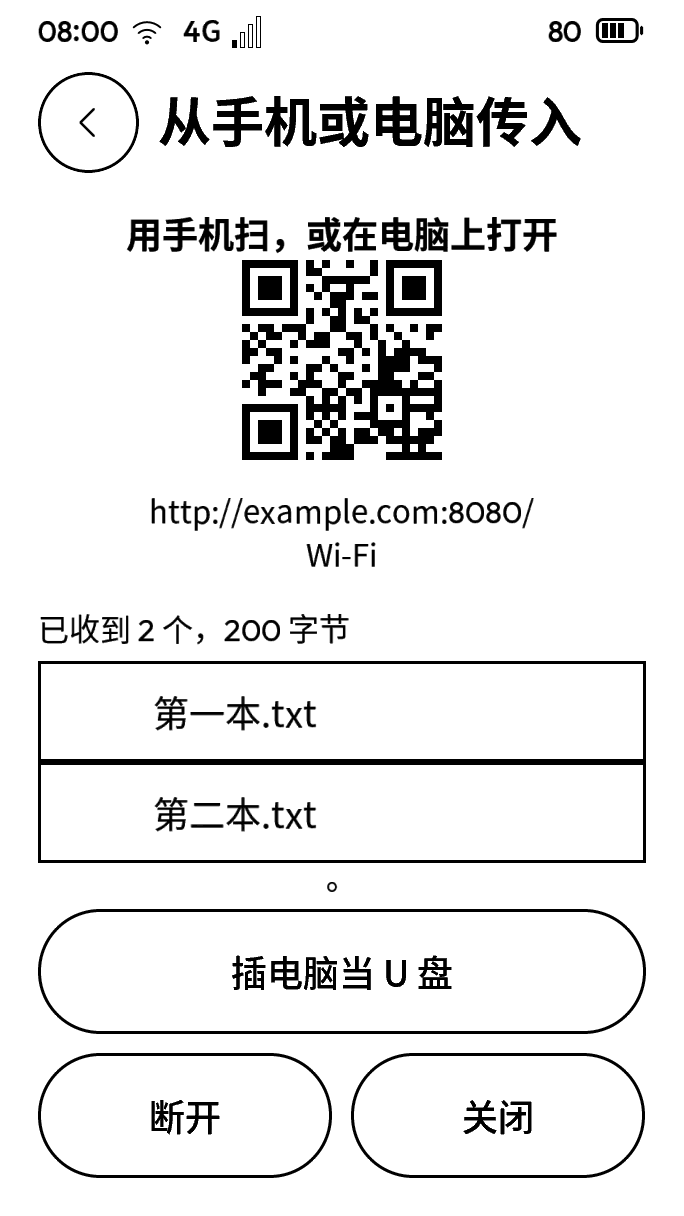
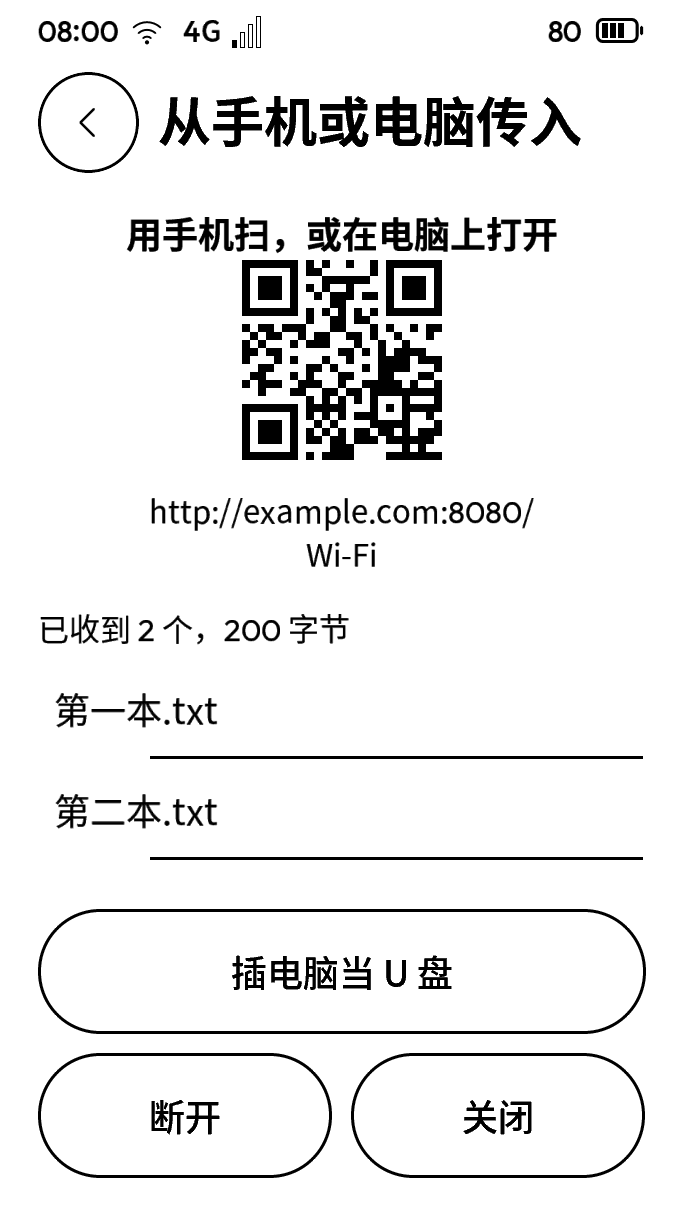
Finalize transfer verification and preserve vendor AP identity

Changed region(s): [[0.0307, 0.5312, 0.9518, 0.7188]]

diff --git a/system/ui/shell/transfer_pages.c b/system/ui/shell/transfer_pages.c
@@ -127,7 +127,7 @@ static void draw(void) {
         } else if (P.active) text(TR("还没连上 Wi-Fi"), INK_FONT_LIST, middle);
         /* The note is one line in Chinese and two in English: it and the status above it move up a line when it
          * wraps, so the buttons never cover its end (i18n-shell-remaining, Transfer-en). */
-        const char *note = !strcmp(P.result, TR("文件已收到")) ? TR("文件已保存，可在文件中打开。") : TR("可以管理当前家人的文件。关掉这页就断开。");
+        const char *note = !strcmp(P.result, TR("文件已收到")) ? TR("文件已保存，可在文件中打开。") : TR("管理当前家人的文件。\n关掉这页就断开。");
         int note_y = bottom - INK_PRIMARY - INK_GAP - ink_ui_text_height(note, INK_FONT_NOTE, INK_WEIGHT_REGULAR, w) - INK_GAP_S;
         if (!P.files) P.note_label = text(note, INK_FONT_NOTE, note_y);
         if (P.files || (P.active && !strcmp(P.code, "000000"))) {
@@ -245,7 +245,7 @@ static void open_page(ink_call_t *c) {
     memset(P.names, 0, sizeof P.names); P.file_text[0] = 0;
     P.result[0] = P.code[0] = P.progress[0] = 0;
     snprintf(P.title, sizeof P.title, TR("准备连电脑"));
-    snprintf(P.detail, sizeof P.detail, "%s", P.usb ? TR("开始前请先停下使用存储卡的应用。占用的应用暂不能查看。") : TR("可以管理当前家人的文件。关掉这页就断开。"));
+    snprintf(P.detail, sizeof P.detail, "%s", P.usb ? TR("开始前请先停下使用存储卡的应用。占用的应用暂不能查看。") : TR("管理当前家人的文件。\n关掉这页就断开。"));
     ink_ui_push(&PAGES[P.usb ? USB_BUSY : WIRELESS], (void *)(intptr_t)(P.usb ? USB_BUSY : WIRELESS));
 }
 static void confirmed(void *ctx, const char *id, const ink_args_t *a) {

diff --git a/docs/tasks/transfer-2/check-radio.py b/docs/tasks/transfer-2/check-radio.py
@@ -1,0 +1,29 @@
+"""Compile the actual radio glue against the existing fake SDK and undo SSID wiring once."""
+from pathlib import Path
+import os
+import subprocess
+import sys
+import tempfile
+
+root = Path(__file__).resolve().parents[3]
+build = Path(sys.argv[1]).resolve()
+source = root / 'ports/esp32s31/vendor/read_pico_transfer/ink_radio.cc'
+fixture = root / 'ports/esp32s31/tests/transfer_radio.cxx'
+prefix = ['taskpolicy', '-c', 'utility'] if sys.platform == 'darwin' else []
+with tempfile.TemporaryDirectory(prefix='transfer-radio-', dir=build) as directory:
+    work = Path(directory)
+    common = prefix + [os.environ.get('CXX', 'c++'), '-std=c++17', '-Wall', '-Wextra', '-Werror', '-I' + str(root / 'ports/esp32s31/tests/transfer_stub')]
+    for name, sanitizer in [('normal', []), ('asan', ['-fsanitize=address,undefined', '-fno-omit-frame-pointer'])]:
+        binary = work / name
+        subprocess.run([*common, *sanitizer, str(fixture), '-o', str(binary)], cwd=root, check=True, capture_output=True)
+        subprocess.run([*prefix, str(binary)], cwd=root, check=True)
+    mutant = work / 'mutant.cc'
+    before = '    FillSsid(ssid, sizeof ssid);'
+    text = source.read_text()
+    assert text.count(before) == 1
+    mutant.write_text(text.replace(before, '    std::strcpy(ssid, "ink-transfer");'))
+    binary = work / 'reverse'
+    subprocess.run([*common, '-DINK_RADIO_SOURCE="' + str(mutant) + '"', str(fixture), '-o', str(binary)], cwd=root, check=True, capture_output=True)
+    result = subprocess.run([*prefix, str(binary)], cwd=root, capture_output=True, text=True)
+    assert result.returncode and 'configured ==' in result.stderr, result.stderr[-1000:]
+    print('original AP name regression: expected failure, exit=' + str(result.returncode))

diff --git a/docs/tasks/transfer-2/REPORT.md b/docs/tasks/transfer-2/REPORT.md
@@ -1,58 +1,108 @@
 # transfer-2 执行报告
 
-基线：`2747eea2e12bdc551fdba82f5a18b7c27e83cf77`。日期：2026-11-12。分支：`claude/codex-transfer-2`。
+基线 `2747eea2e12bdc551fdba82f5a18b7c27e83cf77`；分支 `claude/codex-transfer-2`；日期 2026-11-12。仅本地提交，未操作设备或对外发布。
 
 ## 验收表
 
 | 编号 | 结论 | 证据 | 命令 |
 | --- | --- | --- | --- |
-| 1 | 通过【实测】 | 新服务器实际路由 + 实际策略：完整文件操作、到期各路由、成员/容量/名称、设置 404；撤掉请求鉴权后到期断言失败 | `commands.sh host` |
-| 2 | 通过【实测】 | 入库网页目录函数 7/7，目录字节偏移校验通过 | `node docs/tasks/transfer-2/check-transfer.cjs` |
-| 3 | 策略与模拟器断言通过【实测】 | S31 宿主机 78/78；旧 WebSocket/zlib 传输协议的夹具由新路由用例取代，原模拟器断言保留 | `commands.sh host`、`ctest -R integration-wireless-transfer` |
-| 4 | 进行中 | 默认、最大文字与网页截图待生成 | 待补 |
-| 5 | 进行中 | 主工程、S31、固件与资源变化待验证 | 待补 |
+| 1 | 通过【实测】 | 实际新服务器路由 + 实际授权策略；三次错误关闭、正确授权、家人目录、GBK 原书与浏览器目录、取消无残片、成功重传、改名、复制、批量删除、各路由到期拒绝、路径/满盘/非法名、设置 404；10 项策略反向对照 | A |
+| 2 | 通过【实测】 | 入库网页目录算法 7 种编码 7/7，章节字节偏移正确；目录上传失败不会误报已保存，撤掉响应检查时断言失败 | B |
+| 3 | 原策略场景通过【实测】 | S31 全量 `100% tests passed out of 78`，57.61 秒；原模拟器无线传输和页面断言保留。S31 的旧 WebSocket/zlib 私有协议夹具改由新 HTTP 协议夹具执行等价策略检查，未声称旧协议仍可用 | A、C |
+| 4 | 部分完成【实测】 | 默认、最大文字的等待/已收到及实际两行文件列表截图已取得；增量行反向对照失败符合预期。网页截图被浏览器权限审查拒绝，未取得 | D；[截图目录](screenshots/) |
+| 5 | 部分通过【实测】；普通全量有 1 项失败 | 普通全量原话 `99% tests passed, 1 tests failed out of 438`，唯一失败 `unit-s31-cell-started`；传书相关通过。S31 ASan/UBSan 78/78、主工程相关内存检查 3/3。S31 最后复编通过，编译器 warning/error 均为 0；固件满足体积预算。固件减少 97,376 字节，产品行数 494，gcccheck 已检查四份 C，0 findings | C、E、F、G；[资源数据](resources.json)、[行数](line-count.json) |
+
+命令均从仓库根目录运行，已设置任务给定的 `INK_DEPS`。下列脚本在 macOS 自动加 `taskpolicy -c utility`，构建和 ctest 均最多 `-j2`，不启动 GUI：
+
+- A：`bash docs/tasks/transfer-2/commands.sh host`；完整浏览器目录载荷另跑 `node docs/tasks/transfer-2/check-transfer.cjs build-s31-host/transfer2-fixtures`、`build-s31-host/test-s31-transfer build-s31-host/transfer2-fixtures`。
+- B：`node docs/tasks/transfer-2/check-transfer.cjs`。脚本读取本次入库网页，不依赖外部副本；本环境有 node，未跳过浏览器函数检查。
+- C：`bash docs/tasks/transfer-2/commands.sh main`。
+- D：`bash docs/tasks/transfer-2/commands.sh visual`。其中 `reverse-ui.py` 在临时副本撤掉增量更新，要求对应断言失败，不改源文件。
+- E：`bash docs/tasks/transfer-2/commands.sh s31`。另以 `check-radio.py build-s31-host` 检查原厂热点接线及反向对照。基线从指定提交归档到 `work/transfer-2/baseline`，同脚本构建；`resources.py build-s31-base build-s31` 比较结果。
+- F：`bash docs/tasks/transfer-2/commands.sh asan`。S31 宿主机全量 ASan/UBSan；主工程 ASan/UBSan 的无线传输、页面、增量列表三项。
+- G：`taskpolicy -c utility "$INK_DEPS/build-deps/pyenv/bin/python" "$INK_DEPS/../ink-codex/tools/gcccheck.py" build system/services/file/transfer.c system/ui/shell/transfer_pages.c`；再以 `build-s31-host` 检查 `ports/esp32s31/vendor/read_pico_transfer/read_pico_transfer.c`、`ports/esp32s31/tests/transfer2_policy.c`。
 
 ## 没做到的
 
-- 网页浏览器截图未取得：浏览器权限审查明确拒绝打开回环地址，不绕过审查。设备页改前默认与最大字号截图已取得。
-- 尚在执行其余验证，未碰设备、未调用付费服务、未对外发布。
-- 现有文件服务缺流式原子覆盖接口，同名上传拒绝，保留旧文件；网页明确提示改名再上传。
-- 上游 `/titles` 依赖它自己的阅读器显示名数据库，本次不接；文件改名正常走 `/files`。
+- 网页浏览器截图：浏览器权限审查拒绝打开本机预览地址，原因是未授予访问授权；没有尝试其他浏览器、CDP 或命令行绕过。离线预览脚本为 `preview.py`，只绑定回环地址、只返回合成数据，已停止本次预览服务。
+- FTP 按任务允许的保守方案关闭；`/wifi`、`/clock`、`/signature` 不注册。媒体接口只保存普通文件，不安装字体或设置壁纸。
+- 文件服务没有流式原子覆盖接口，同名上传拒绝并提示改名；不移动旧文件拼凑替换。未恢复断电遗留片段，正常取消/断开/过期清理已知 `.part`。
+- `/titles` 依赖上游自己的阅读器显示名数据库，本次不接；文件实际改名通过 `/files` 完成。没有修改阅读器，未声称它会读取新目录文件或自动入架。
+- 未实机验证并发网络、吞吐、热点手机兼容性、运行内存峰值；未在 Linux 实跑。
+- 上游快捷目录上传仍以 `books` 生成侧文件路径；本次只验收默认目录，未覆盖把 `books` 根目录改名后再快捷上传的组合。书改名/复制后的目录文件关联也未接阅读器元数据。
 
 ## 和设计不一致的
 
-待核对。
+- 采用上游通用同步 HTTP 分支，屏蔽其网络、NVS、时钟、电源与阅读器元数据依赖；路径、接收、清理、分页、文件操作、复制、下载函数仍取自整文件。无线底层保留基线已集成的原厂 `StartRadio` 整函数及原暂停/恢复钩子，没有自行重写时序。
+- `hotspot-1`、`usb-disk-1` 不在本分支补实现。热点沿用当前行为；“插电脑当 U 盘”进入现有 `transfer.usb` 页，再调用现有 `usb.mount`，沿用其占用/确认策略。
+- 新内容按钮用共用令牌，125 px；文件行没有圆形图标，没收到时没有文件行。基线共用顶栏的返回键仍为 101 px 且带圆圈，严格的“所有可点控件 ≥108 px”尚有这一处共用控件缺口，未改任务范围外的顶栏。
+- 两分钟授权沿用现状，包含上传过程，不新增续期；接收状态保留总数和最近两个文件名，更多文件由既有文件能力查询。网页可管理当前成员 `/me`，书籍快捷上传在 `/me/books`。
 
 ## 改过的已有测试
 
-暂无。
+- `tests/transfer_pages/device.c` 只增加最大文字、完成态截图和选择截图的入口；原地址、二维码位图、授权码保密、USB 占用、坏卡和孩子断言保留。
+- `tests/ui_fix_a/transfer.c` 只追加原生多文件回执场景：未收到不画行；第一行到达保留页面；第二行到达保留第一行；AI 取得两个文件名。原断言未改。
+- S31 CMake 的传书目标换接 `transfer2.cxx`、`transfer2_policy.c` 和本次上游 C 文件。旧 `transfer.cxx`、`transfer_policy.c` 保留原文，旧私有协议不再注册进当前目标。新夹具以合成内存文件逐字节验证内容，不把文件写入假装成成功。
+- `transfer_reverse.py` 的旧 HTTP/WebSocket 注入点换成新服务器请求鉴权与过期残片清理；保留三错、成员、到期、AI 脱敏、删除策略和启动失败检查。容量断言增加“满盘不尝试打开写入”，不是放宽为只看错误状态。
+- 编译只对整份保留的上游文件抑制未调用静态函数诊断（其 NVS/联网辅助函数不在本项目运行）；其余告警、原预算、断言和 sanitizer 未放宽。CI 注册测试不依赖 Git 历史。
 
 ## 要用户定的
 
-按任务书关闭 FTP 与系统设置网页接口；若以后需要，由主会话决定接入范围。
+由主会话决定是否接网页设置能力、FTP 授权、流式覆盖、阅读器显示名数据库和中英文网页切换；本次全部采用任务指定或保守可逆方案，不等待选择，不把它们记成用户新需求。
 
 ## 顺手发现
 
-暂无。
+- 合并阅读器翻译表在 CMake 配置时生成，追加英文后需重新配置才能更新；已用重新配置解决，没有改任务外的构建机制。
+- 平台资产 HAL 也使用共享 miniz，删除旧传书接线时不能移除这项链接。首次 S31 编译的缺头错误已在原 CMake 链接行修复，资产 HAL 未改。
+- 页面快照原上限是 128 token。新增两个重复展示字段和重复返回动作会超过上限，已在页面本身合并重复信息，字段总数保持六项；解析上限不变。
+- 截图核查发现首次回执后旧说明残留在列表底部，已在增量更新时隐藏该说明并保持已有行；最终截图已刷新并视觉核对，说明无残留、文件行无外框。
 
 ## 新增的机制
 
-暂无。
+- kiikoread 原有 HTTPD 单任务取代旧 HTTPD + 两个工作任务；任务第 1、2 条要求替换服务。内部栈 10 KiB，接收缓冲 16 KiB 在 PSRAM，不新增上传线程或队列。
+- 本次接收的两项有界文件名列表：任务第 5、6 条要求设备页和 AI 状态可见；随新授权清空计数，成员切换不带出历史名字。
+- 浏览器定时校验授权并禁用失效页面：任务第 2 条要求授权结束网页失效；设备端仍逐请求和逐块做实际校验。
+- `.toc.json` 是上游原格式，任务明确要求保留；gzip 是构建嵌入产物，不是新的持久用户数据格式。
+
+没有新增设备配置项、后台重试、缓存、常驻任务或状态机；授权 cookie、授权互斥锁与不睡眠需求沿用已有机制。
 
 ## 要改的文档
 
-待汇总，任务禁止的共享文档不直接修改。
+`python3 tools/capabilities.py` 已运行：611 定义，生成结果与基线一致，无需提交空差异。没有新增能力，`tests/integration/ai_surface.c` 两张表无需追加。英文仅在 `assets/i18n/en.tsv` 末尾追加。主会话后续同步传书协议、默认书籍目录、目录文件格式、最近两项回执与上述缺口；未改任务禁止的共享需求、决策、研究或审计文档。
+
+## 资源与来源证据
+
+【实测】固件 `.bin`：4,270,528 → 4,173,152 字节，净减 97,376 字节，满足净增 ≤40 KiB。新网页 35,040 → gzip 12,479 字节；原两语言压缩网页合计 36,550 字节。静态 DIRAM 165,358 → 164,486（−872）；静态 PSRAM 746,744 → 747,576（+832）。完整值见 [resources.json](resources.json)。
+
+【实现】新 HTTP 栈 10 KiB 为内部 RAM；16 KiB 接收缓冲、分页条目、目录包装、复制树路径缓冲在 PSRAM；下载的 1 KiB 小缓冲在 HTTP 栈，JSON 序列化仍用已有 cJSON 分配方式。旧 HTTPD 和两个工作任务各 16 KiB PSRAM 栈被移除。仅比较这些明确项，新栈增加 10 KiB 内部需求、移除 48 KiB PSRAM 栈并新增 16 KiB PSRAM 接收缓冲；这不是运行峰值实测。
+
+产品代码保守计 **494 行**：翻译、注释、空行均计入，只扣除上游整文件中的相同行和原文 `FillSsid` 六行，其余无线接线文件整份计入，测试和文档不计，见 [line-count.json](line-count.json)。超过 100 行因为服务器需要完整接入已有文件/目录回调和授权，另有页面回执、构建和网页安全接线；更小的直接写卡或复制授权策略方案均会违反成员隔离/平台接口要求。
+
+[来源与逐段修改](../../../ports/esp32s31/vendor/read_pico_transfer/SOURCE.md)记录提交、原文/入库 SHA-256、许可范围和每一处原文修改行号；24 个入库文件哈希已核对。原厂无线参数出处为 `main/display/screen/cloud_screen/ap/ap_transfer.cc` 的 `StartRadio`（`874538e:1169`，SSID 生成在 187 行，信道/连接数/认证在 1212–1214 行），Plus 发射功率来自该版本 `components/esp-wifi-connect/include/wifi_station.h:16`；沿用基线实现，无新增硬件参数。
+
+目录文件与书同名换后缀，例如 `synthetic.txt` 对应 `synthetic.toc.json`，UTF-8 JSON：`{"encoding":"gbk","entries":[{"t":"第一章","o":0}]}`。`o` 是原始书文件的字节偏移，`t` 是上游最多 40 UTF-8 字节的章节标题；编码值来自原目录算法。书的字节不转码，目录在手机/电脑浏览器计算，设备只保存。
 
 ## 上机核对清单
 
-主会话用手机打开网址、输码、上传一本书、取消一次、看设备收到；本任务只做宿主机与编译验证。
+1. 手机在已有 Wi-Fi 打开设备网址、输授权码（或扫码后手输），上传 GBK TXT；在当前成员 `books` 同时核对原书与 `.toc.json`。本次阅读器不读它。
+2. 上传中取消一次，确认没有原书或 `.part`；随后成功重传并核对接收行只增一行。试改名、复制、批量下载和删除，确认家人空间外路径无法访问。
+3. 三次错码关闭；重新授权后切家人、开飞行模式或到期，旧网页请求被拒，授权码/密码不出现在 AI 快照或日志。
+4. 没有 Wi-Fi 时确认现有热点入口可用；关闭后恢复原 Wi-Fi 状态和自动发现；传输期间不睡。插电脑走现有 USB 页面并确认占用提示。
+5. 记录开启、上传、取消、退出时内部 RAM/PSRAM 余量和 HTTP 栈高水位，确认关闭后任务/缓冲释放；实测手机吞吐和 10 KiB 内部栈余量。
 
-## 里程碑记录
+## 最终验证记录
 
-- 已复制上游完整 C、头文件与网页，记录哈希、修改范围和许可边界；旧网页管理器原位替换，二维码原文平移。
-- 【实测】实际新服务器与实际授权策略的合成文件服务测试已通过：GBK + 浏览器目录、取消清理、改名、复制、批量删除、媒体普通上传、到期所有路由拒绝、成员切换、满盘、非法名称、系统设置 404。完整测试和反向对照继续执行。
-- 【实测】指定基线 S31 固件编译通过，待与最终固件比较。
+- 【实测】S31 ASan/UBSan：`100% tests passed out of 78`，82.10 秒。主工程相关 ASan/UBSan：`100% tests passed out of 3`，31.55 秒。
+- 【实测】S31 最后一轮编译 warning/error 均为 0，基线同为 0；`build.sh` 的构建、打包、size、size-components、栈报告均完成。
 
-- 【实测】S31 宿主机最终全量：`100% tests passed out of 78`，57.61 秒。请求鉴权撤销、到期临时文件清理撤销等反向对照已通过。
-- 【实测】页面默认/最大字号夹具各 33 条检查通过；增量行更新撤销后对应断言失败。已查阅实际截图，继续修正首个文件到达后旧说明的残留。
-- 【实测】gcccheck：主工程两份 C、S31 上游适配 C 和策略夹具两份 C 均 0 findings。
+- 【实测】热点名称接线已恢复原厂 `FillSsid`；独立替身驱动检查实际 SSID、信道、连接数、开放认证及暂停/恢复，通过。改回固定名称后断言失败（exit −6）。该只涉及设备的变更已完成最后复编。
+
+- 普通全量中 `unit-s31-cell-started` 在 `cell.c:16` 的 `at_ok` 断言中止；同测试已在独立普通/ASan S31 全量通过。传书任务没有改动蜂窝源文件，保留失败，不越界修蜂窝驱动；全量结束后的单独复测已通过，仍保留全量失败。
+
+- 【实测】普通全量结束：`99% tests passed, 1 tests failed out of 438`，1620.78 秒。共 439 条目，hub 三项按既有配置自动跳过，`memo-save-busy` 按基线禁用；本任务未新增跳过或禁用。唯一失败仍为 `unit-s31-cell-started`。
+
+- 【实测】蜂窝失败项单独复测：`100% tests passed out of 1`，11.88 秒。未改源码；保留普通全量的失败，不用单次复测替换全量记录，失败原因未定位。
+- 【实测】最终默认/最大文字截图各 33 条检查通过，增量行撤销更新后 exit 1；原厂热点接线的普通与 ASan/UBSan 替身测试通过，固定名称回退对照 exit −6。
+
+- 【实测】最后 S31 固件：4,173,152 字节，相对基线净减 97,376 字节；warning/error 各 0，栈报告、打包和资源统计已完成。
+- 【实测】最终 `gcccheck.py`：主工程 2 份 C 为 0 findings，S31 上游适配和策略夹具 2 份 C 为 0 findings；实际 GBK + 浏览器目录载荷重新逐字节检查通过。

diff --git a/docs/tasks/transfer-2/screenshots/README.md b/docs/tasks/transfer-2/screenshots/README.md
@@ -1,0 +1,7 @@
+# 截图说明
+
+全部为本机模拟器实际渲染，使用合成成员和数据，不是实机或设计稿。每张小于 300 KB。
+
+- `before/`：指定基线页面；真实回环 HTTP 客户端驱动的等待、接收中、已收到；`large` 使用系统最大文字设置。
+- `after/transfer/100/`、`120/`：当前页面默认、最大文字；`snap-waiting` 等待授权，`snap-received` 为旧极简页面完成单文件的兼容态，`snap-received-native` 为原生服务器多文件回执。
+- 生成方式：报告命令 D。网页浏览器截图因权限审查拒绝访问本机预览而缺失，未用设计稿或其他渲染代替。
